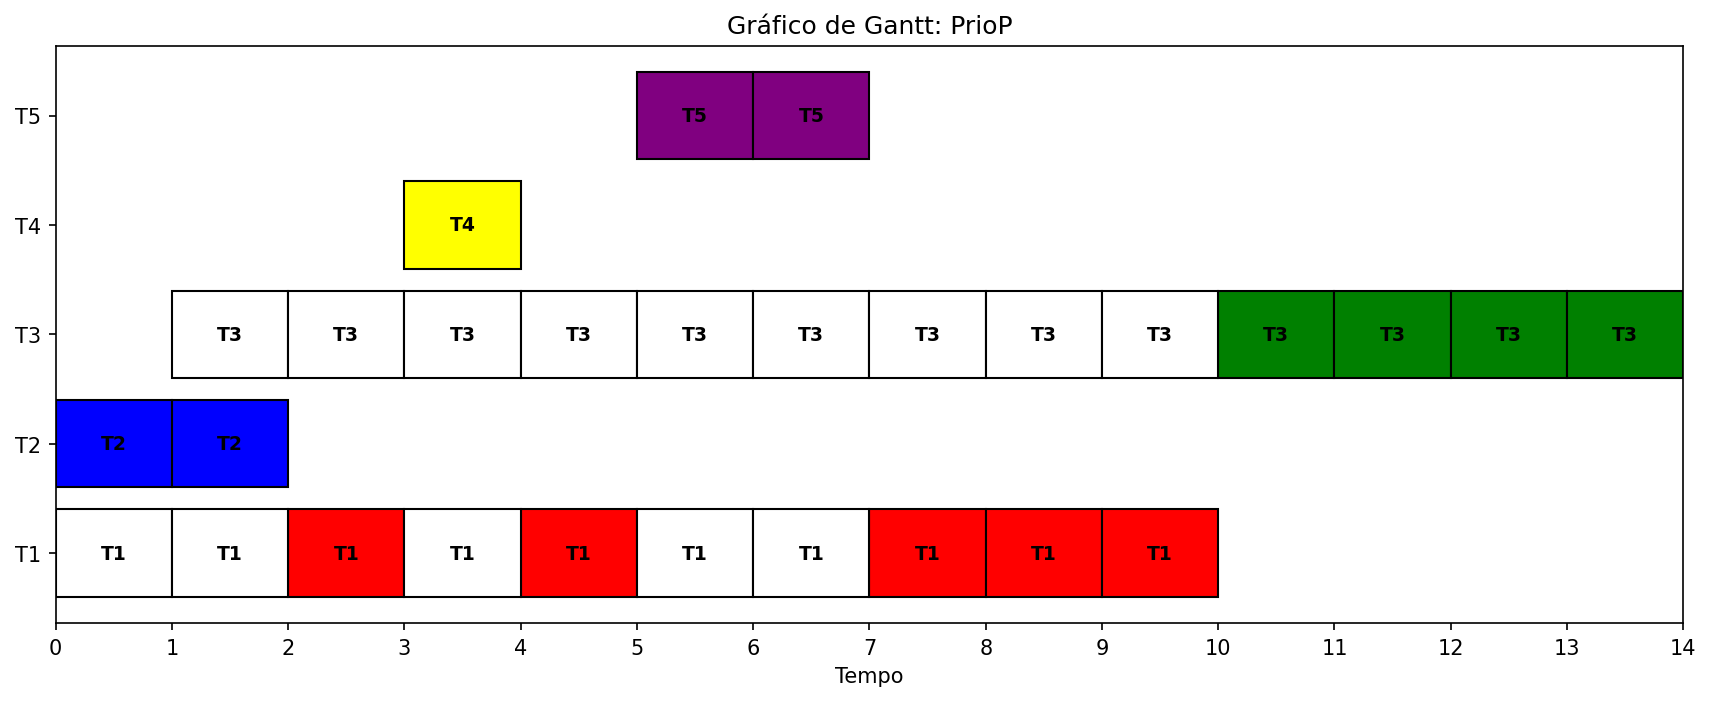
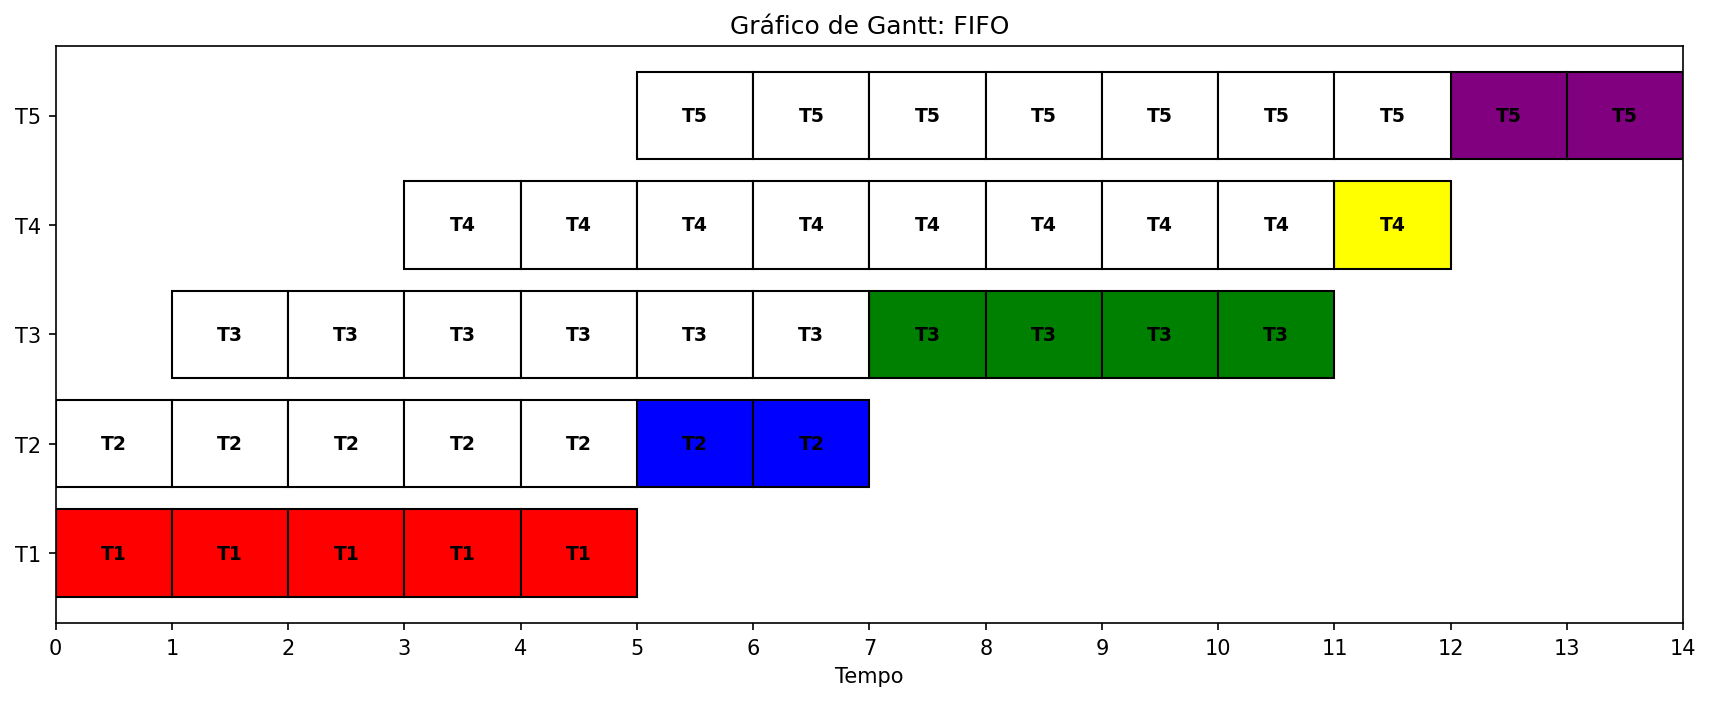
Finalizado os algoritmos

diff --git a/Algoritmos.py b/Algoritmos.py
@@ -9,55 +9,107 @@ import struct
 def FIFO(tarefas, tempoMax, quantum):  
     copiaTarefas = tarefas.copy()
     tempoAtual = 0
-    instrucoes = []
+    instrucoes = []    
+    tarefasInativas = []
     tarefasProntas = []
-    while (tempoAtual < tempoMax):
-        tarefasProntas = PegarTarefasProntas(copiaTarefas, tarefasProntas,tempoAtual)
-
+    tarefasProntas = PegarTarefasProntas(copiaTarefas, tarefasProntas,tempoAtual, False)      
+    while (tempoAtual < tempoMax):                  
         for i in range(quantum):
-            if ChecarDuracao(tarefasProntas[0]):                
+            if ChecarDuracaoRestante(tarefasProntas[0]):                
                 instrucoes.append(tarefasProntas[0])
-                tarefasProntas[0]['duracaoRestante'] -= 1
+                tarefasInativas.extend(PegarTarefasInativas(copiaTarefas, tarefasProntas[0], tempoAtual))                
+                tarefasProntas[0]['duracaoRestante'] -= 1     
                 tempoAtual+=1
+                tarefasProntas = PegarTarefasProntas(copiaTarefas, tarefasProntas,tempoAtual, False)      
+                for i in range(len(tarefasProntas)):
+                    print(tarefasProntas[i])
+                print("-------------")
+            
         tarefasProntas.pop(0)
 
-    return instrucoes, None
+    return instrucoes, tarefasInativas
         
-def PegarTarefasProntas(tarefas, tarefasProntas, tempoAtual):
+
+def SRTF(tarefas, tempoMax, quantum):
+    copiaTarefas = tarefas.copy()
+    tempoAtual = 0
+    instrucoes = []
+    tarefasProntas = []
+    tarefasProntas = PegarTarefasProntas(copiaTarefas, tarefasProntas,tempoAtual, True)  
+    tarefasInativas = []
+    while tempoAtual < tempoMax:        
+        for q in range(quantum):            
+            menorDuracao = PegarMenorDuracao(tarefasProntas)            
+            instrucoes.append(menorDuracao)       
+            tarefasInativas.extend(PegarTarefasInativas(copiaTarefas, menorDuracao, tempoAtual))
+            menorDuracao['duracaoRestante'] -= 1
+            tempoAtual +=1
+            tarefasProntas = PegarTarefasProntas(copiaTarefas, tarefasProntas,tempoAtual, True)    
+
+    return instrucoes, tarefasInativas
+
+
+def PrioP(tarefas, tempoMax, quantum):
+    copiaTarefas = tarefas.copy()
+    tempoAtual = 0
+    instrucoes = []
+    tarefasProntas = []
+    tarefasProntas = PegarTarefasProntas(copiaTarefas, tarefasProntas,tempoAtual, True)  
+    tarefasInativas = []
+    while tempoAtual < tempoMax:
+        for q in range(quantum):                  
+            maiorPrio = PegarMaiorPrioridade(tarefasProntas)
+            instrucoes.append(maiorPrio)
+            tarefasInativas.extend(PegarTarefasInativas(copiaTarefas, maiorPrio, tempoAtual))
+            maiorPrio['duracaoRestante'] -= 1
+            tempoAtual +=1
+            tarefasProntas = PegarTarefasProntas(copiaTarefas, tarefasProntas, tempoAtual, True)
+            
+    return instrucoes, tarefasInativas
+
+def PegarTarefasProntas(tarefas, tarefasProntas, tempoAtual, apagarConcluidas):
     prontas = tarefasProntas.copy()
+    if apagarConcluidas:
+        prontas = [t for t in prontas if t['duracaoRestante'] != 0]  # Remove tarefas que já foram concluídas
+    idsProntas = {tarefa['id'] for tarefa in prontas}
+
     for i in range (len(tarefas)):
-        if ChecarIngresso(tarefas[i], tempoAtual) and ChecarDuracao(tarefas[i]) :
+        if ChecarIngresso(tarefas[i], tempoAtual) and ChecarDuracaoRestante(tarefas[i]) and tarefas[i]['id'] not in idsProntas:
             prontas.append(tarefas[i])
+
+   
     return prontas
 
-def SRTF(tarefas, tempoAtual, quantum):
-    ingressados = []
-    for i in range(len(tarefas)):                  
-        if ChecarIngresso(tarefas[i], tempoAtual) and ChecarDuracao(tarefas[i]):        
-            ingressados.append(tarefas[i]) 
-        
-    menorDuracao = PegarMenorDuracao(ingressados)        
-    tarefasInativas = PegarTarefasInativas(tarefas, menorDuracao, tempoAtual)
+def PegarTarefasInativas(tarefas, tarefaAtiva,tempoAtual):
+    tarefasInativa = []
+    for tarefa in tarefas:
+        if tempoAtual >= tarefa['ingressoTarefa']  :
+            if tarefa['id'] != tarefaAtiva['id']:
+                if ChecarDuracaoRestante(tarefa):
+                    copiaTarefa = tarefa.copy()
+                    copiaTarefa['ingressoTempo'] = tempoAtual
+                    tarefasInativa.append(copiaTarefa)
+    return tarefasInativa
 
-    return menorDuracao, tarefasInativas
+def PegarMaiorPrioridade(tarefas):  
+    maiorPrioridade = tarefas[0]
+    for tarefa in tarefas:     
+        if ChecarDuracaoRestante(tarefa):              
+            maiorPrioridade = CompararPrioridade(tarefa, maiorPrioridade)    
 
+    return maiorPrioridade
 
-def PrioP(tarefas, tempoAtual, quantum):
-    ingressados = []
-    for i in range(len(tarefas)):                  
-        if ChecarIngresso(tarefas[i], tempoAtual) and ChecarDuracao(tarefas[i]):        
-            ingressados.append(tarefas[i])     
-        
-        
-    maiorPrioridade = PegarMaiorPrioridade(ingressados)
-    tarefasInativas = PegarTarefasInativas(tarefas, maiorPrioridade, tempoAtual)
-    
-    return maiorPrioridade, tarefasInativas
+def PegarMenorDuracao(tarefas):
+    menorDuracao = tarefas[0]
+    for tarefa in tarefas:    
+        if ChecarDuracaoRestante(tarefa):
+            menorDuracao = CompararDuracao(tarefa, menorDuracao)    
+    return menorDuracao
 
 def ChecarQuantum(instrucaoAnterior):
     return True if instrucaoAnterior['quantumRestante'] > 0 else False
 
-def ChecarDuracao(tarefa):    
+def ChecarDuracaoRestante(tarefa):    
     return tarefa['duracaoRestante'] > 0
 
 def ChecarIngresso(tarefa, tempoAtual):
@@ -69,28 +121,9 @@ def PegarMenorIngresso(tarefa1, tarefa2):
 def CompararDuracao(tarefa1, tarefa2):
     return tarefa1 if tarefa1['duracaoRestante'] < tarefa2['duracaoRestante'] else tarefa2
 
+
 def CompararPrioridade(tarefa1, tarefa2):
     return tarefa1 if tarefa1['prioridade'] > tarefa2['prioridade'] else tarefa2
 
-def PegarMaiorPrioridade(tarefas):  
-    maiorPrioridade = tarefas[0]
-    for tarefa in tarefas:                   
-        maiorPrioridade = CompararPrioridade(tarefa, maiorPrioridade)
-    return maiorPrioridade
 
-def PegarMenorDuracao(tarefas):
-    menorDuracao = tarefas[0]
-    for tarefa in tarefas:                   
-        menorDuracao = CompararDuracao(tarefa, menorDuracao)
-    return menorDuracao
-
-def PegarTarefasInativas(tarefas, tarefaAtiva,tempoAtual):
-    tarefasInativa = []
-    for tarefa in tarefas:
-        if tempoAtual >= tarefa['ingressoTarefa']  :
-            if tarefa['id'] != tarefaAtiva['id']:
-                if ChecarDuracao(tarefa):
-                    tarefasInativa.append(tarefa)
-                    
-    return tarefasInativa
 

diff --git a/Funcoes.py b/Funcoes.py
@@ -26,17 +26,22 @@ def GerarInstrucoes(algoritmo, tarefas, quantum):
         "PrioP": PrioP
     }  
 
-    instrucoesBrutas, listaInativos = algoritimos[algoritmo](tarefas,tempoMax, 2)   
+    instrucoesBrutas, listaInativos = algoritimos[algoritmo](tarefas,tempoMax, quantum)   
 
     for i in range(len(instrucoesBrutas)):             
         instrucoes.append(CriarDadosInstrucao(instrucoesBrutas[i], i,False,quantumCount))
         quantumCount = (quantumCount-1) % quantum
 
-        #if listaInativos:
-        #    for u in range(len(listaInativos)):                
-        #        instrucoesInativas.append (
-        #        CriarDadosInstrucao(listaInativos[u], i,True,quantumCount)
-        #        )
+    #for instr in instrucoes:
+        #print(instr)
+    #print("-------------")
+
+    #for inativo in listaInativos:
+    #    print(inativo)
+
+    if listaInativos:
+       for i in range(len(listaInativos)):                
+           instrucoesInativas.append (CriarDadosInstrucao(listaInativos[i], listaInativos[i]['ingressoTempo'],True,quantumCount) )
 
     return instrucoes, instrucoesInativas
 
@@ -45,10 +50,13 @@ def CriarDadosInstrucao(instrucao, tempoIngresso, inativo,quantumCount):
     if inativo:
         cor = 0
         estado = False
+        instrucao['duracaoRestante'] = "---"
     else:
         cor = instrucao['cor']  
         estado = True
-    instrucao['duracaoRestante'] += 1
+        instrucao['duracaoRestante'] += 1   
+
+
     return{
         'nome': instrucao['nome'],
         'id': instrucao['id'], 

diff --git a/SimulEscal.py b/SimulEscal.py
@@ -81,6 +81,7 @@ class SimulEscal:
         self.IniciarSimulacao()
 
     def PegarInfoBarra(self,instrucao):
+        
         if instrucao['estado']:
             estado = "Em Execução"
         else:
